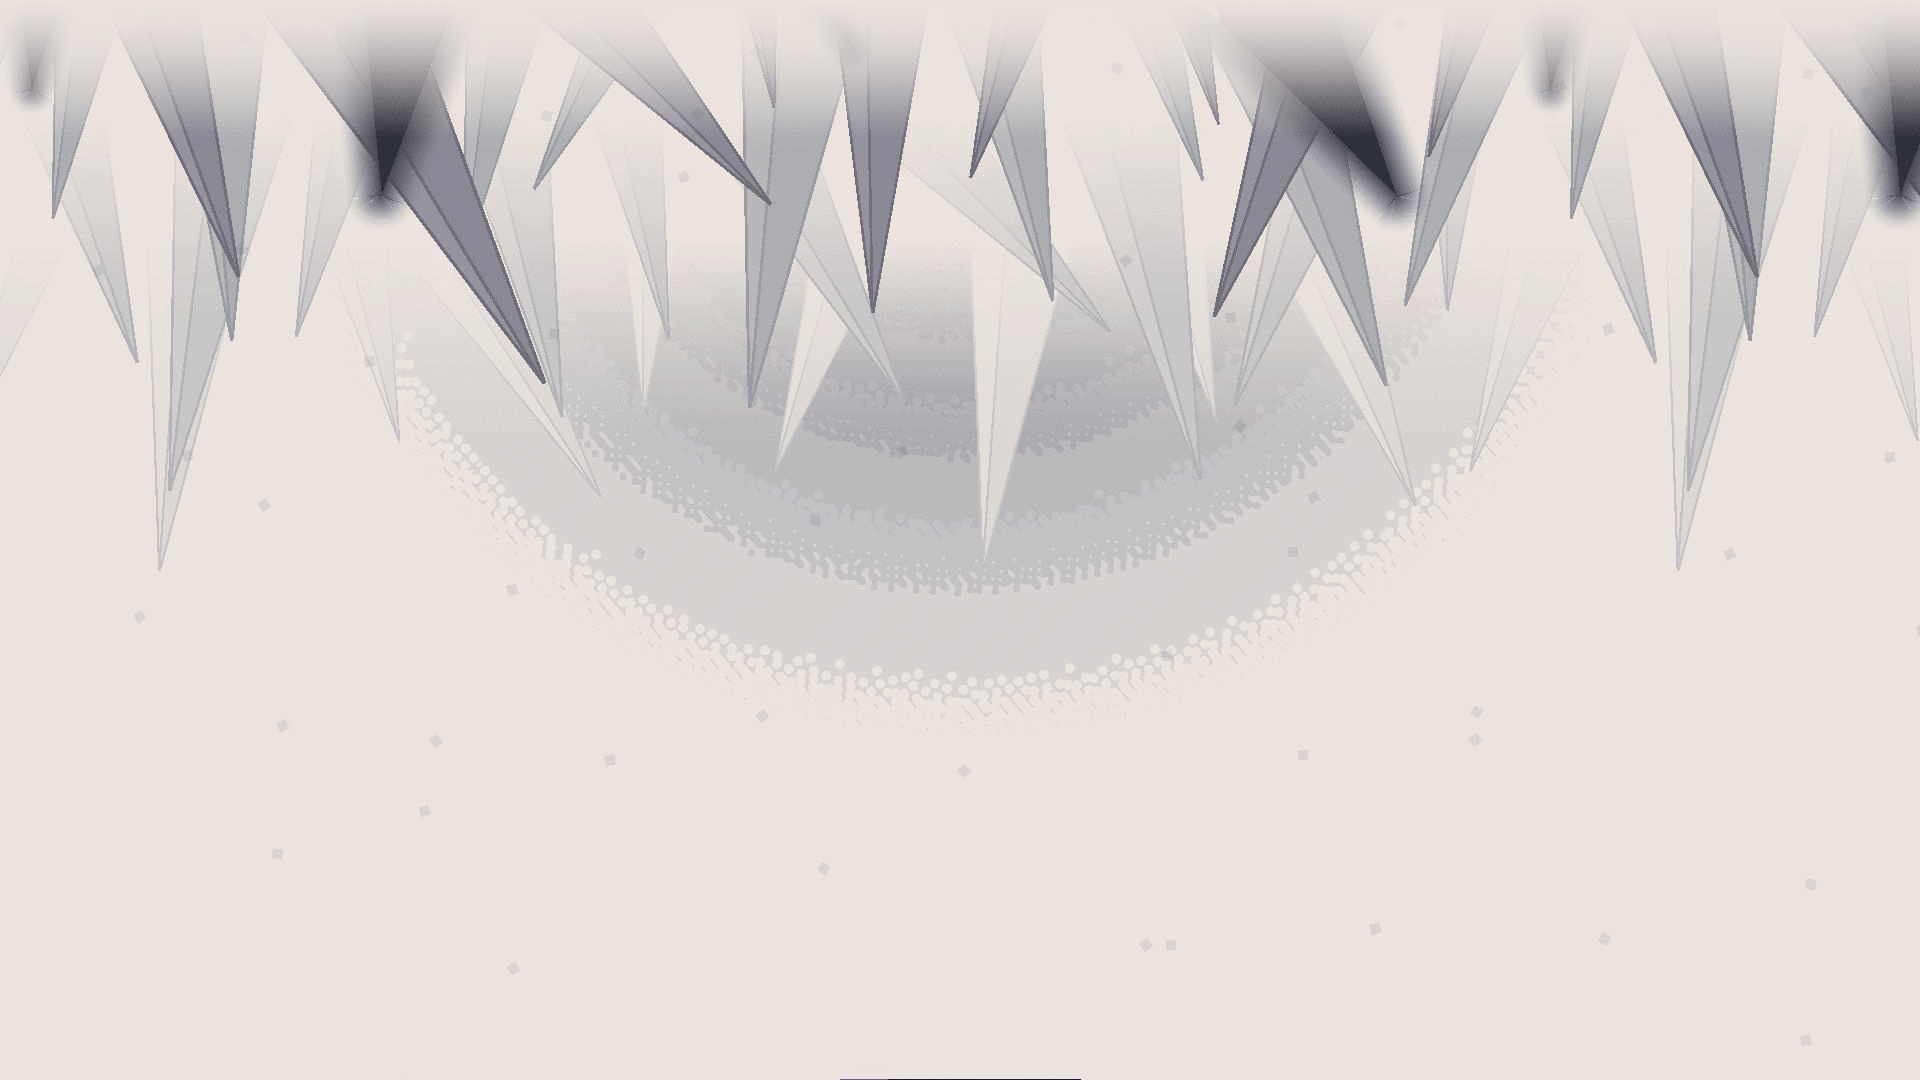
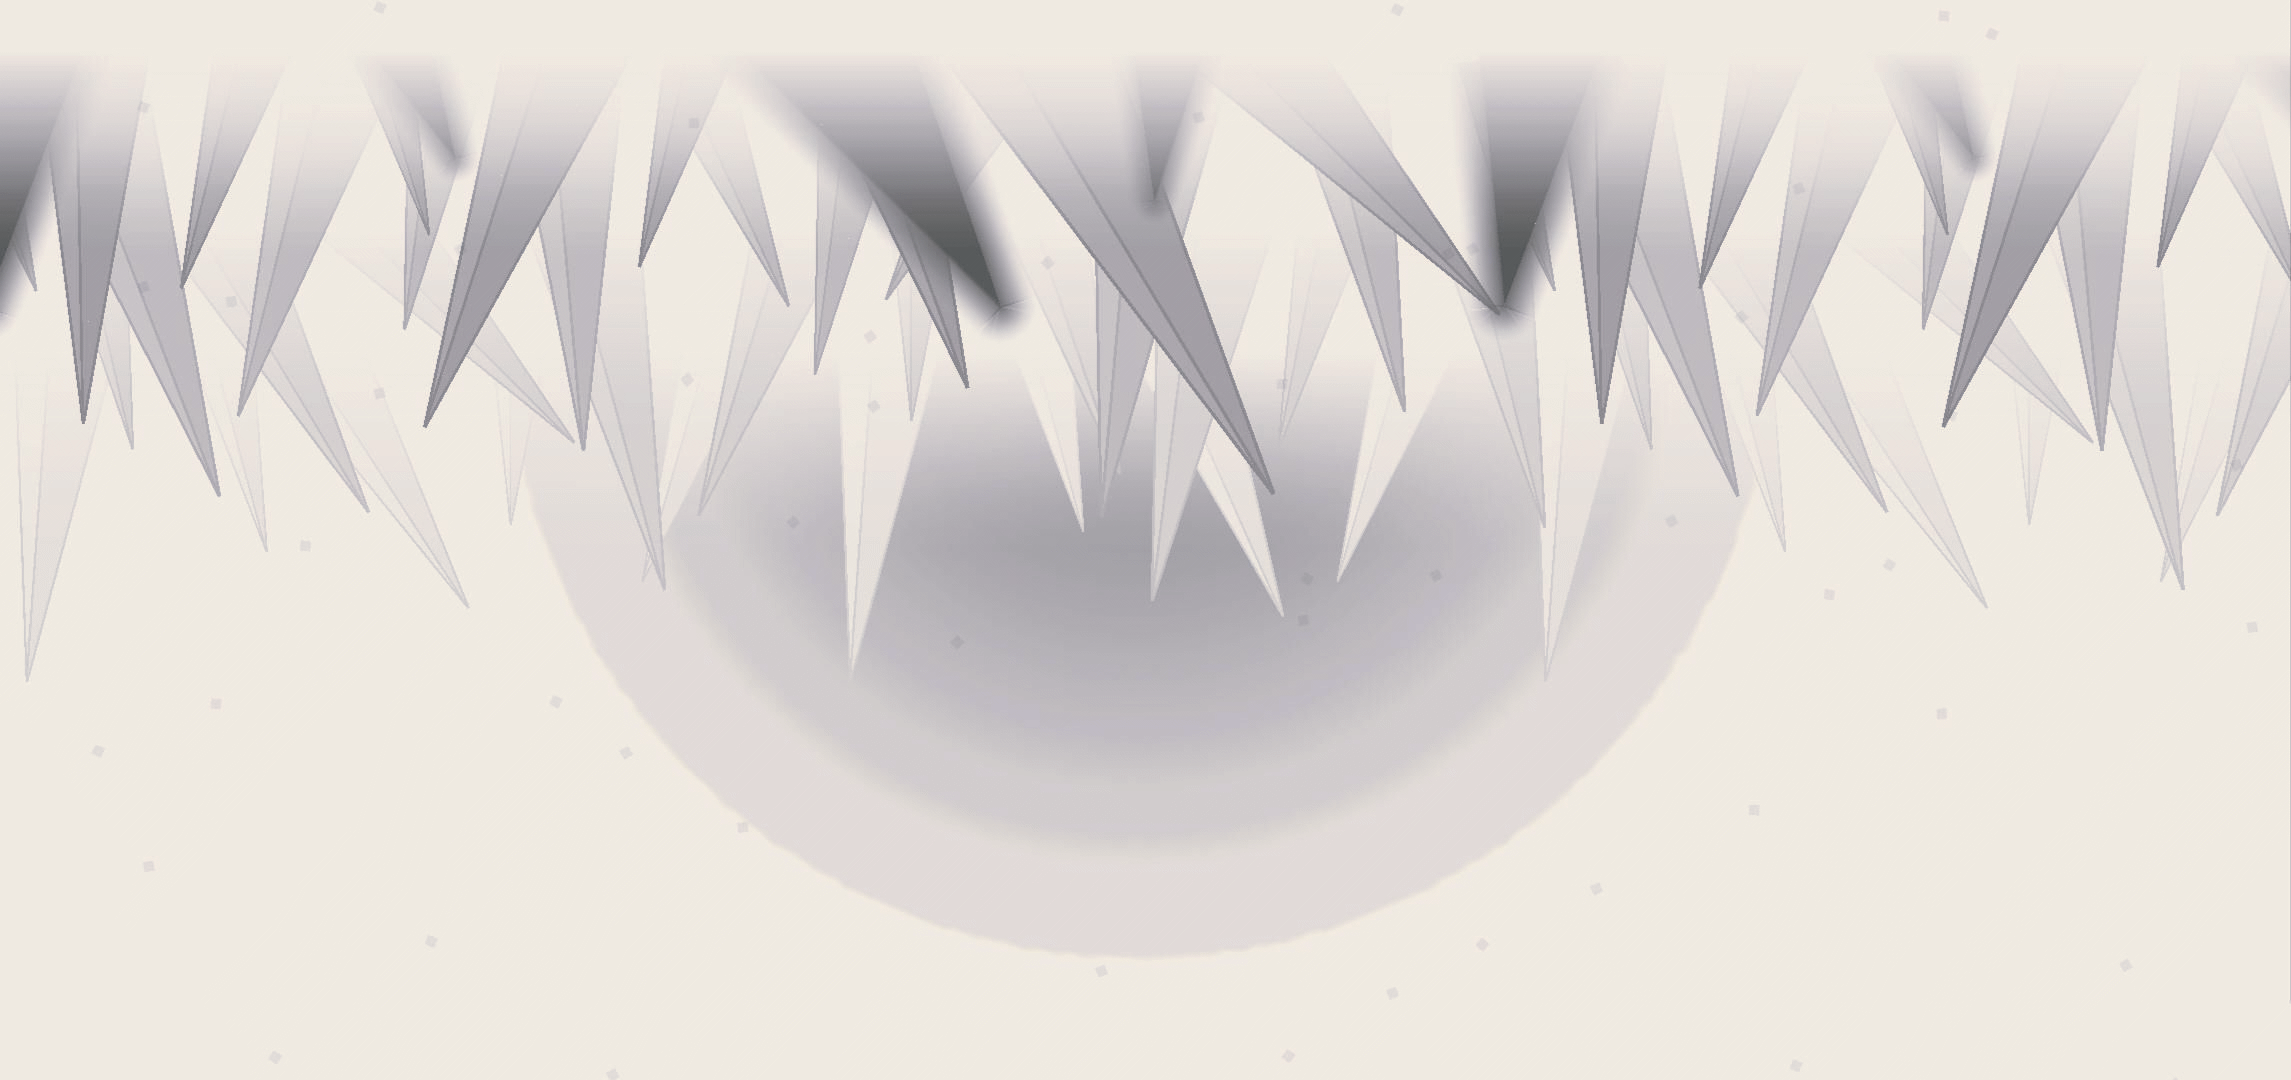
Save uncommitted changes

diff --git a/index.html b/index.html
@@ -61,18 +61,20 @@
 <main>
 
   <!-- 1. HERO -->
-  <section class="hero bg-light py-5" aria-labelledby="hero-titulo">
+  <section class="hero hero-section py-5" aria-labelledby="hero-titulo">
     <div class="container">
       <div class="row align-items-center g-4">
         <div class="col-lg-6">
-          <h1 id="hero-titulo" class="display-4 fw-bold">Diseña tu camiseta a tu estilo</h1>
-          <p class="lead text-secondary">
-            Sube tu arte, muévelo, escálalo y rótalo sobre la camiseta. Míralo en 3D
-            o expórtalo a PDF antes de comprar.
-          </p>
-          <div class="d-flex flex-wrap gap-2">
-            <a href="pagina10.html" class="btn btn-brand btn-lg">Diseña la tuya</a>
-            <a href="pagina2.html" class="btn btn-outline-dark btn-lg">Ver productos</a>
+          <div class="hero-copy">
+            <h1 id="hero-titulo" class="display-4 fw-bold">Diseña tu camiseta a tu estilo</h1>
+            <p class="lead text-secondary">
+              Sube tu arte, muévelo, escálalo y rótalo sobre la camiseta. Míralo en 3D
+              o expórtalo a PDF antes de comprar.
+            </p>
+            <div class="d-flex flex-wrap gap-2">
+              <a href="pagina10.html" class="btn btn-brand btn-lg">Diseña la tuya</a>
+              <a href="pagina2.html" class="btn btn-outline-dark btn-lg">Ver productos</a>
+            </div>
           </div>
         </div>
         <div class="col-lg-6 text-center">

diff --git a/css/index.css b/css/index.css
@@ -6,11 +6,32 @@
 }
 .hero-shirt:hover { transform: rotate(-4deg) scale(1.04); }
 
+.hero-section {
+  background: url("../img/BG2.png") center bottom / 100% auto no-repeat;
+  background-color: var(--graphite);
+  color: var(--seashell);
+}
+.hero-copy {
+  background-color: rgba(0, 5, 7, .45);
+  margin-left: calc((100vw - 100%) / -2);
+  padding: 2rem 2rem 2rem max(2rem, calc((100vw - 100%) / 2 + 2rem));
+
+  box-shadow: 0 0 30px rgb(0 5 7);
+}
+.hero-section .lead { color: var(--seashell) !important; }
+.hero-section .btn-outline-dark {
+  --bs-btn-color: var(--seashell);
+  --bs-btn-border-color: var(--seashell);
+  --bs-btn-hover-bg: var(--seashell);
+  --bs-btn-hover-border-color: var(--seashell);
+  --bs-btn-hover-color: var(--graphite);
+}
+
 .paso-icono,
 .acceso-icono { font-size: 2.5rem; }
 
 .destacados-section {
-  background: url("../img/BG.png") center / cover no-repeat;
+  background: url("../img/BG.png") center top / cover no-repeat;
 }
 
 /* Banda final: charcoal con botón claro (el btn-dark se perdería sobre graphite) */
